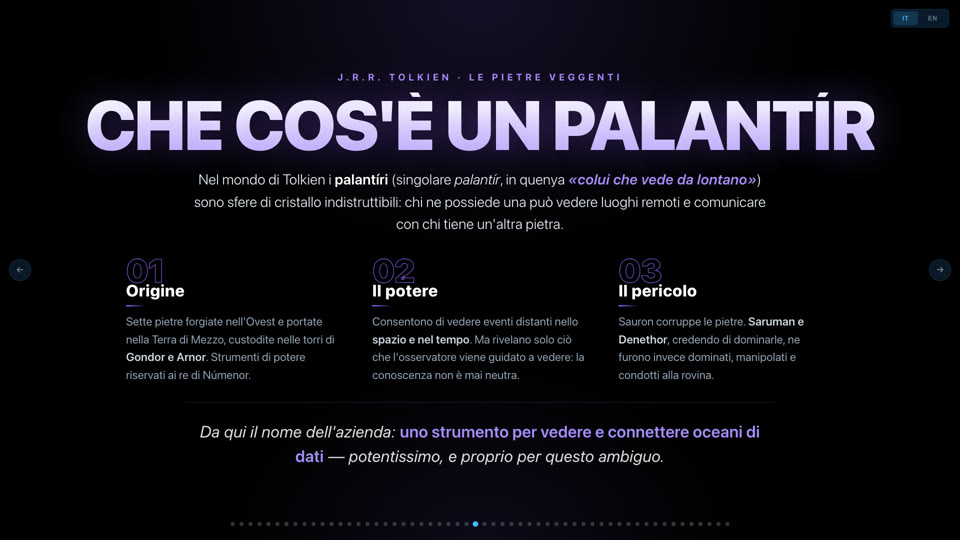
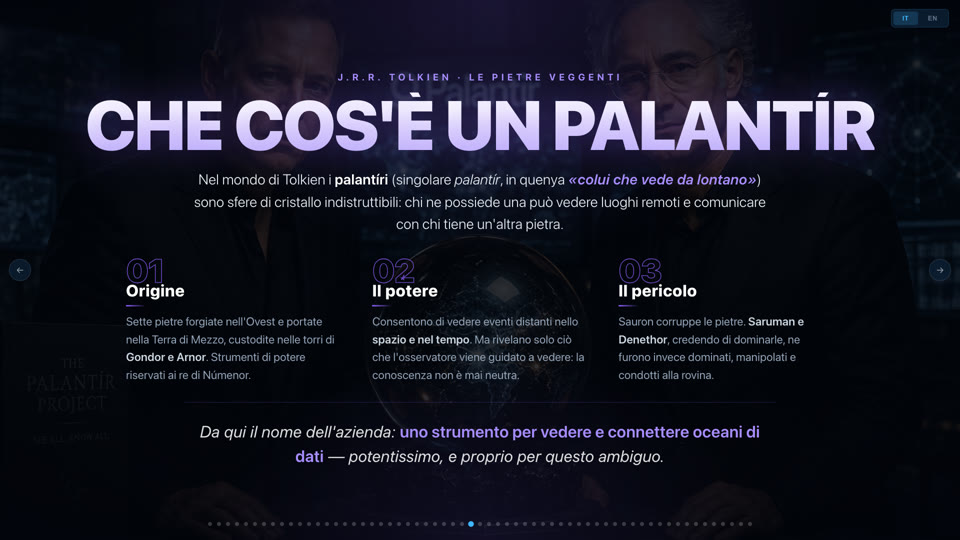
feat: Che cos'è un Palantír con la foto Palantir sullo sfondo

diff --git a/palantir-intro-2.html b/palantir-intro-2.html
@@ -14,12 +14,28 @@
       position: fixed; inset: 0;
       background:
         radial-gradient(60% 80% at 50% 0%, rgba(139,92,246,0.16), transparent 60%),
-        radial-gradient(40% 50% at 50% 100%, rgba(139,92,246,0.10), transparent 70%),
-        #000;
+        radial-gradient(40% 50% at 50% 100%, rgba(139,92,246,0.10), transparent 70%);
+      z-index: 1;
       display: flex; flex-direction: column;
       align-items: center; justify-content: center;
       padding: clamp(28px, 5vh, 60px) clamp(36px, 6vw, 100px);
       box-sizing: border-box;
+    }
+
+    /* ---------- Foto delle slide Palantir dietro, scurita per leggere il testo ---------- */
+    .bgphoto {
+      position: fixed; inset: 0; z-index: 0;
+      background: url('img/palantir.png') no-repeat center center; background-size: cover;
+      transform: scale(1.06); transform-origin: 50% 45%;
+      animation: bgIn 1.4s ease both, kenburns 26s ease-in-out 1.4s infinite alternate;
+    }
+    @keyframes bgIn { from { opacity: 0; } to { opacity: 1; } }
+    @keyframes kenburns { from { transform: scale(1.06); } to { transform: scale(1.12) translate(-1%, -1.2%); } }
+    .bgscrim {
+      position: fixed; inset: 0; z-index: 0;
+      background:
+        radial-gradient(70% 70% at 50% 50%, rgba(3,4,12,0.76) 0%, rgba(3,4,12,0.64) 55%, rgba(3,4,12,0.84) 100%),
+        linear-gradient(180deg, rgba(3,4,12,0.55), rgba(3,4,12,0.2) 40%, rgba(3,4,12,0.7));
     }
 
     /* ---------- Intestazione ---------- */
@@ -108,6 +124,8 @@
 </head>
 <body>
 
+  <div class="bgphoto"></div>
+  <div class="bgscrim"></div>
   <div class="stage">
     <div class="head">
       <div class="eyebrow" id="eyebrow"></div>
